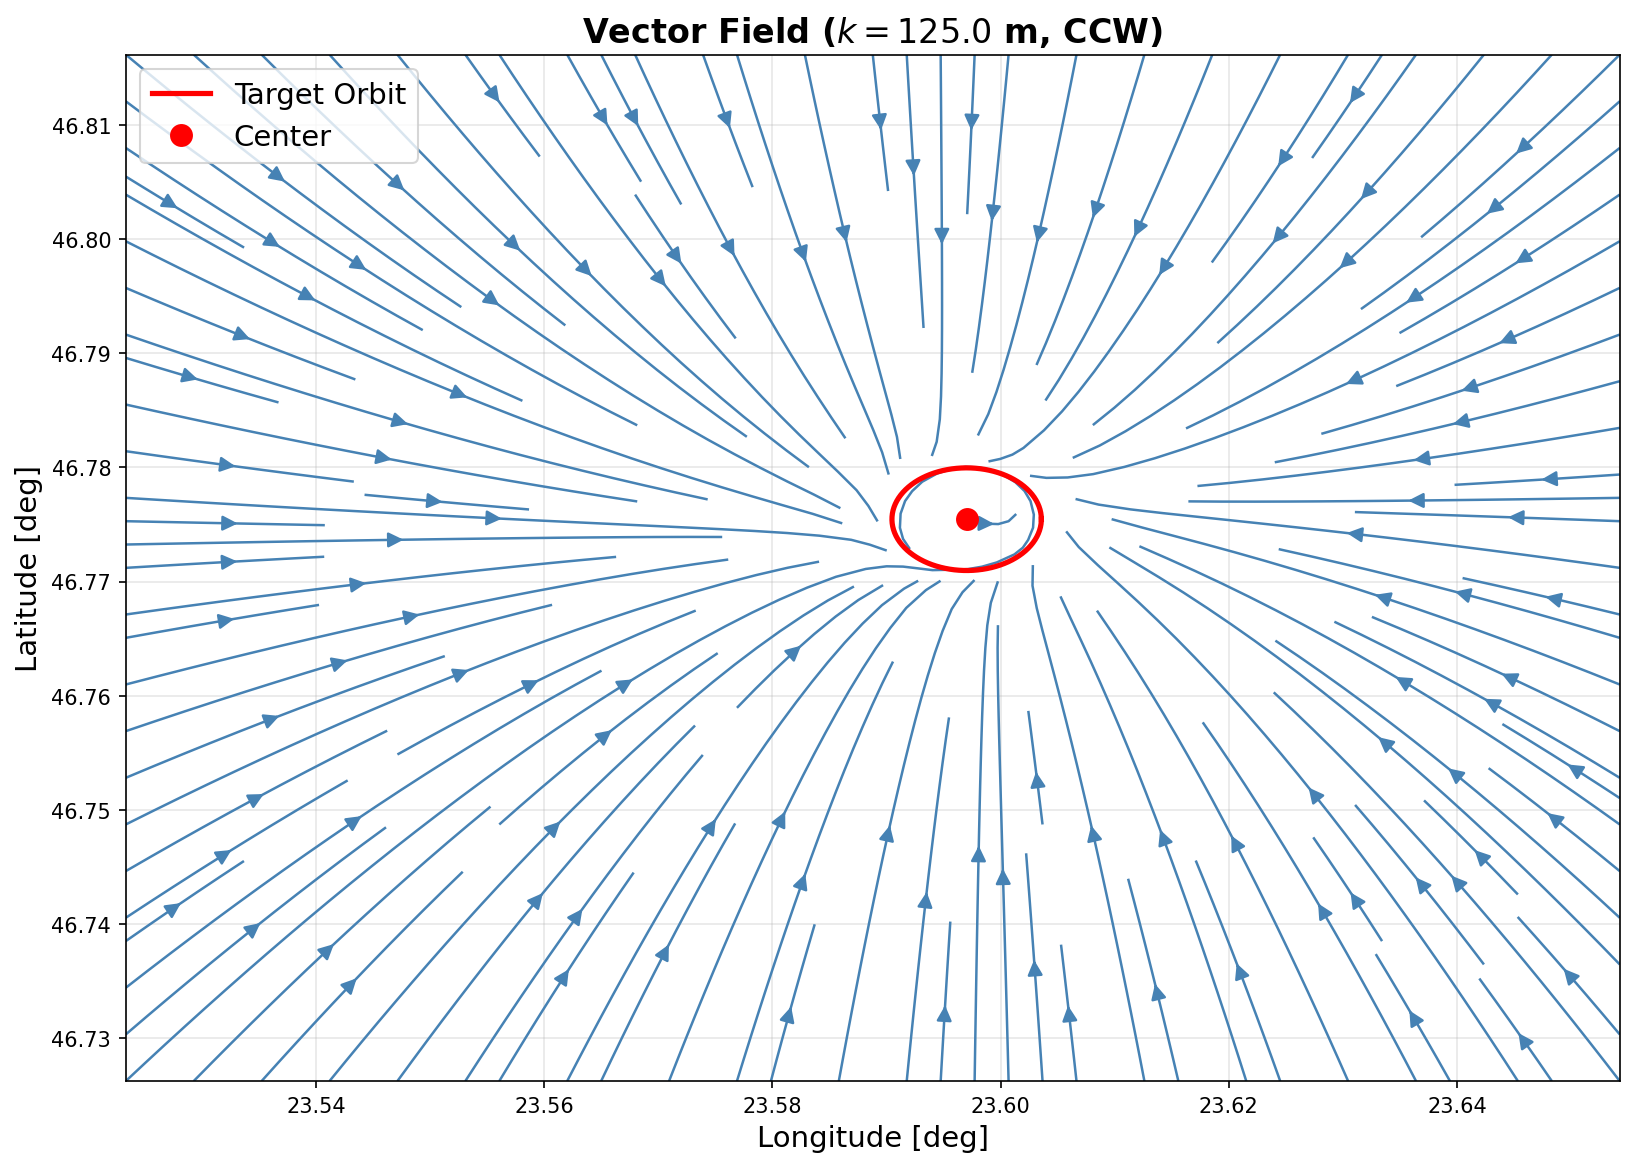
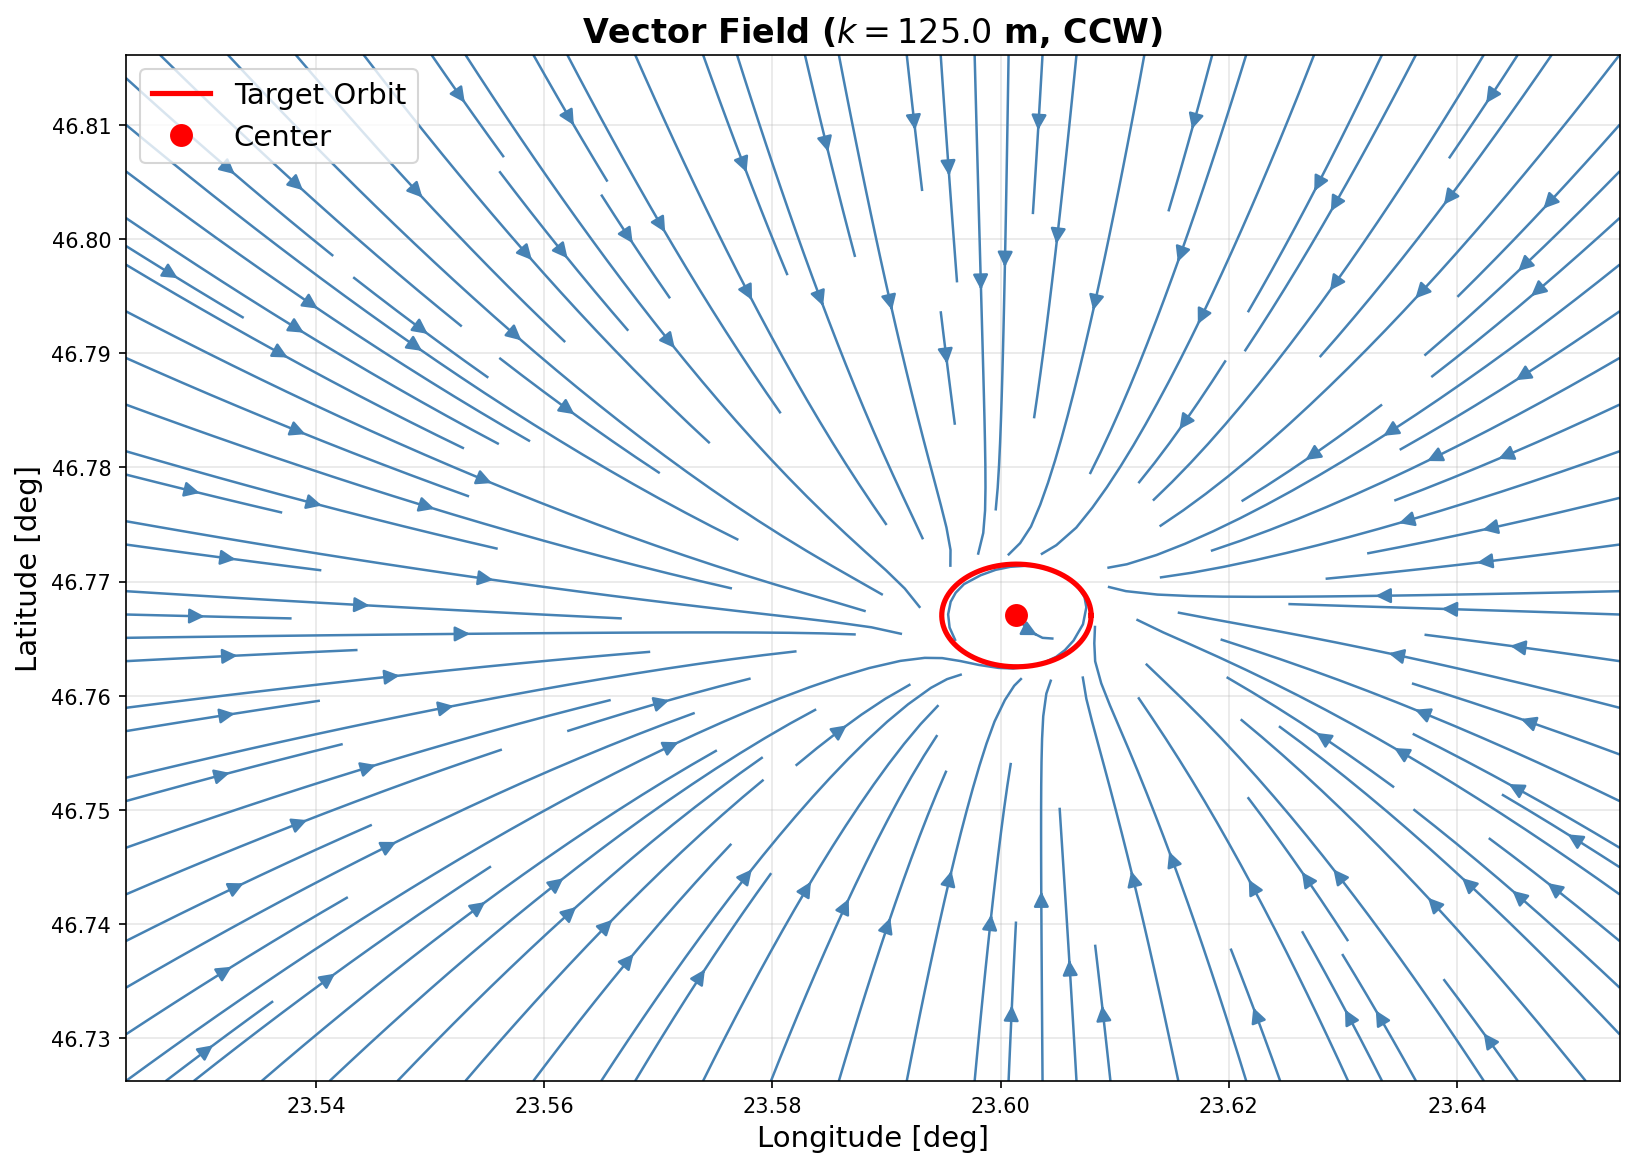
GuidanceMath

Changed region(s): [[0.0624, 0.0617, 0.9988, 0.9254], [0.7491, 0.8638, 0.7803, 0.8946], [0.437, 0.0925, 0.4682, 0.1234]]

diff --git a/src/Navigation/GuidanceMath/GuidanceMath.cpp b/src/Navigation/GuidanceMath/GuidanceMath.cpp
@@ -1,0 +1,71 @@
+#include "GuidanceMath.h"
+
+void computeRadii(float phi, float* N, float* M) {
+    float sin_phi = sinf(phi);
+    float denom = sqrtf(1.0f - WGS84_E2 * sin_phi * sin_phi);
+    
+    *N = WGS84_A / denom;
+    *M = WGS84_A * (1.0f - WGS84_E2) / (denom * denom * denom);
+}
+
+void geographicToLocal(float lambda, float phi, float lambda_ref, float phi_ref,
+                       float* x, float* y) {
+    float N, M;
+    computeRadii(phi_ref, &N, &M);
+    
+    *x = N * cosf(phi_ref) * (lambda - lambda_ref);
+    *y = M * (phi - phi_ref);
+}
+
+void localToGeographic(float x, float y, float lambda_ref, float phi_ref,
+                       float* lambda, float* phi) {
+    float N, M;
+    computeRadii(phi_ref, &N, &M);
+    
+    *lambda = lambda_ref + x / (N * cosf(phi_ref));
+    *phi = phi_ref + y / M;
+}
+
+void velocityToRates(float v, float psi, float phi,
+                     float* lambda_dot, float* phi_dot) {
+    float N, M;
+    computeRadii(phi, &N, &M);
+    
+    float v_N = v * cosf(psi);
+    float v_E = v * sinf(psi);
+    
+    *phi_dot = v_N / M;
+    *lambda_dot = v_E / (N * cosf(phi));
+}
+
+float optimalHeading(float lambda_current, float phi_current,
+                     float lambda_target, float phi_target) {
+    float N, M;
+    computeRadii(phi_current, &N, &M);
+    
+    float dx = N * cosf(phi_current) * (lambda_target - lambda_current);
+    float dy = M * (phi_target - phi_current);
+    
+    return atan2f(dx, dy);
+}
+
+float orbitGuidance(float lambda, float phi, float lambda_c, float phi_c,
+                    float R, float k, int lambda_orbit) {
+    float N, M;
+    computeRadii(phi, &N, &M);
+    
+    float x = N * cosf(phi) * lambda;
+    float y = M * phi;
+    float x_c = N * cosf(phi) * lambda_c;
+    float y_c = M * phi_c;
+    
+    float dx = x - x_c;
+    float dy = y - y_c;
+    
+    float r = sqrtf(dx * dx + dy * dy);
+    float theta = atan2f(-dx, -dy);
+    
+    float psi = theta + lambda_orbit * (atanf((R - r) / k) + M_PI / 2.0f);
+    
+    return psi;
+}

diff --git a/src/Navigation/GuidanceMath/GuidanceMath.h b/src/Navigation/GuidanceMath/GuidanceMath.h
@@ -1,0 +1,30 @@
+#ifndef GUIDANCE_MATH_H
+#define GUIDANCE_MATH_H
+
+#include <math.h>
+
+#define WGS84_A 6378137.0f
+#define WGS84_F (1.0f / 298.257223563f)
+#define WGS84_E2 (WGS84_F * (2.0f - WGS84_F))
+
+#define DEG_TO_RAD (M_PI / 180.0f)
+#define RAD_TO_DEG (180.0f / M_PI)
+
+void computeRadii(float phi, float* N, float* M);
+
+void geographicToLocal(float lambda, float phi, float lambda_ref, float phi_ref,
+                       float* x, float* y);
+
+void localToGeographic(float x, float y, float lambda_ref, float phi_ref,
+                       float* lambda, float* phi);
+
+void velocityToRates(float v, float psi, float phi,
+                     float* lambda_dot, float* phi_dot);
+
+float optimalHeading(float lambda_current, float phi_current,
+                     float lambda_target, float phi_target);
+
+float orbitGuidance(float lambda, float phi, float lambda_c, float phi_c,
+                    float R, float k, int lambda_orbit);
+
+#endif
